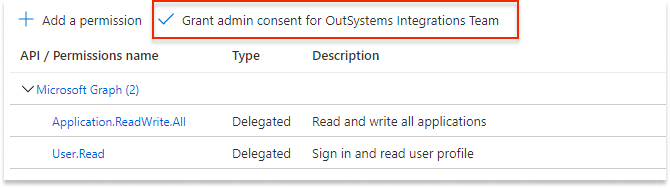
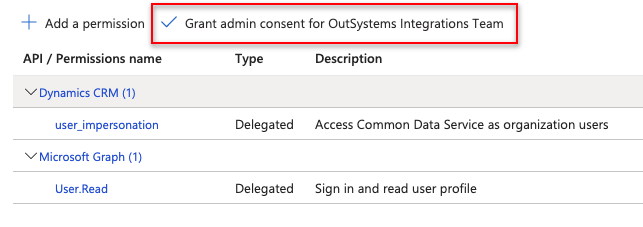
RCNT-6530: fix dataverse permissions section

diff --git a/src/extensibility-and-integration/integration-builder/connectors/how-register-ib-ms-sp-dv-d360.md b/src/extensibility-and-integration/integration-builder/connectors/how-register-ib-ms-sp-dv-d360.md
@@ -86,7 +86,7 @@ To add and request application permissions for your environment, choose either t
 
    ![add a permission](images/ms-azure-dynamics-crm.png)
 
-1. Under Permissions, select **user-impersonation**.
+1. Under Permissions, select **user_impersonation**.
 
 1. Scroll to the bottom of the list and click the **Add permissions** button again.
 
